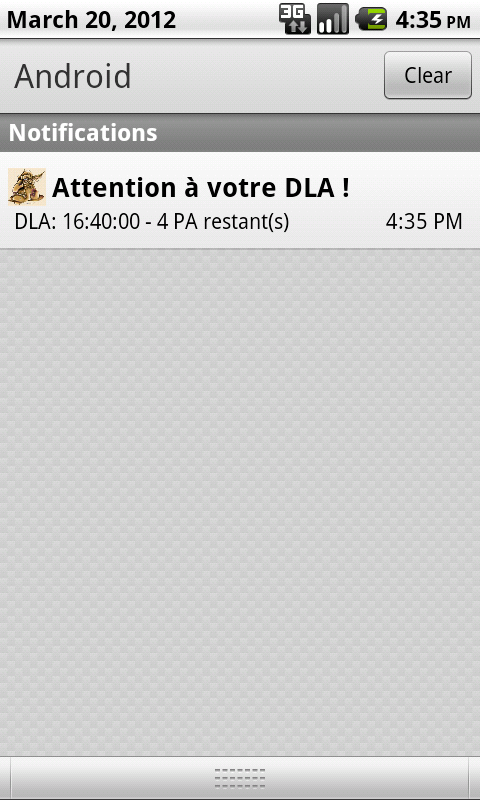
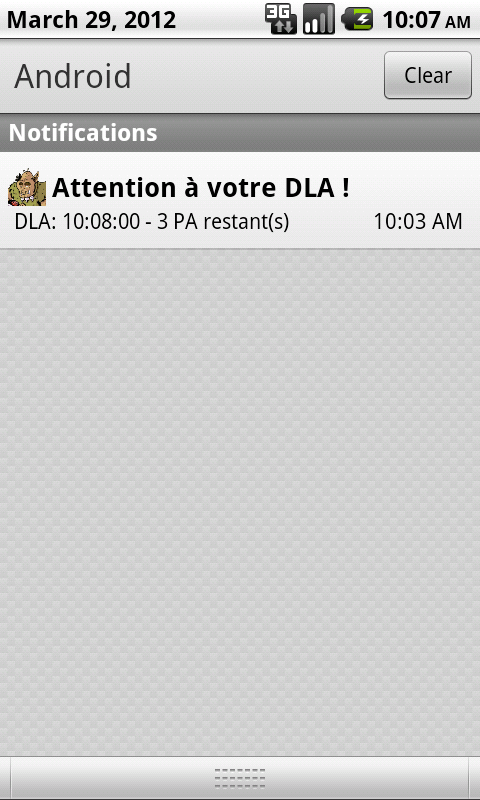
Mise a jour des captures d'ecran

diff --git a/src/org/zoumbox/mh_dla_notifier/sp/PublicScriptsProxy.java b/src/org/zoumbox/mh_dla_notifier/sp/PublicScriptsProxy.java
@@ -72,10 +72,12 @@ public class PublicScriptsProxy {
 
     protected static PublicScriptResponse doMockHttpGET(String url) {
         String rawResult;
+        String dla = "2012-03-29 10:08:00";
+        String pa = "3";
         if (url.contains("SP_Profil2.php")) {
-            rawResult = "123456;57;-75;-41;85;80;0;2012-03-29 11:30:00;8;4;13;4;4;6;360;361;0;5;0;0;0;0;0;585;0;1;0";
+            rawResult = "123456;57;-75;-41;85;80;"+pa+";"+dla+";8;4;13;4;4;6;360;361;0;5;0;0;0;0;0;585;0;1;0";
         } else if (url.contains("SP_Profil3.php")) {
-            rawResult = "123456;Mon Trõll;57;-75;-41;0;2012-03-29 11:30:00;3;0;0;0;2;22;88;6042";
+            rawResult = "123456;Mon Trõll;57;-75;-41;"+pa+";"+dla+";3;0;0;0;2;22;88;6042";
         } else {
             rawResult = "123456;Mon Trõll;Kastar;19;2011-01-21 14:07:48;;http://zoumbox.org/mh/DevelZimZoumMH.png;17;122;9;1900;20;0";
         }

diff --git a/src/org/zoumbox/mh_dla_notifier/profile/ProfileProxy.java b/src/org/zoumbox/mh_dla_notifier/profile/ProfileProxy.java
@@ -173,7 +173,10 @@ public class ProfileProxy {
     protected static Pair<String, String> loadIdPassword(SharedPreferences preferences) throws MissingLoginPasswordException {
 
         if (Constants.mock) {
-            return new Pair<String, String>("123456", "******");
+            SharedPreferences.Editor editor = preferences.edit();
+            editor.putString(PROPERTY_TROLL_ID, "123456");
+            editor.putString(PROPERTY_TROLL_PASSWORD, "*******");
+            editor.commit();
         }
 
         final String trollNumber = preferences.getString(PROPERTY_TROLL_ID, null);
